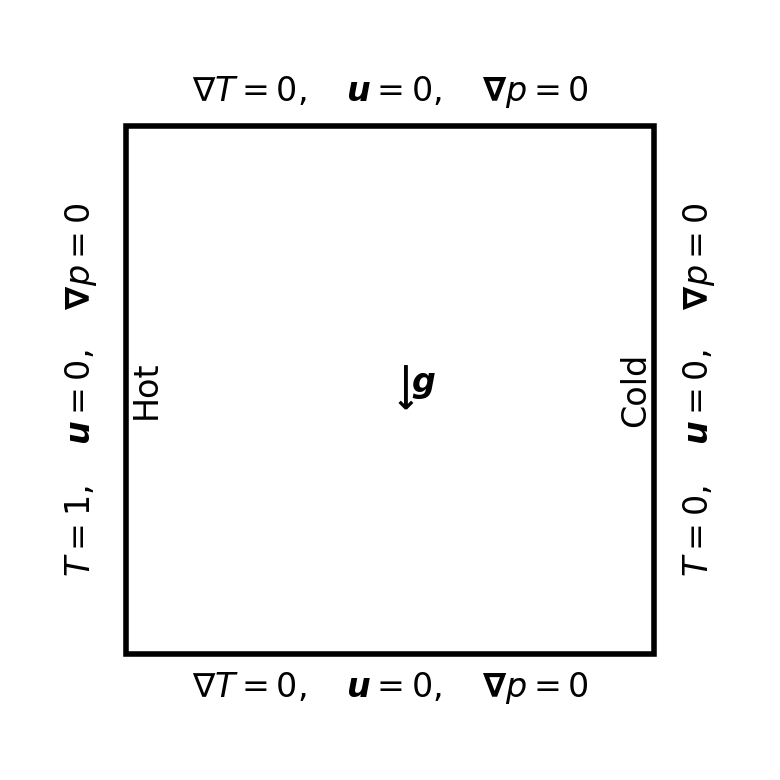
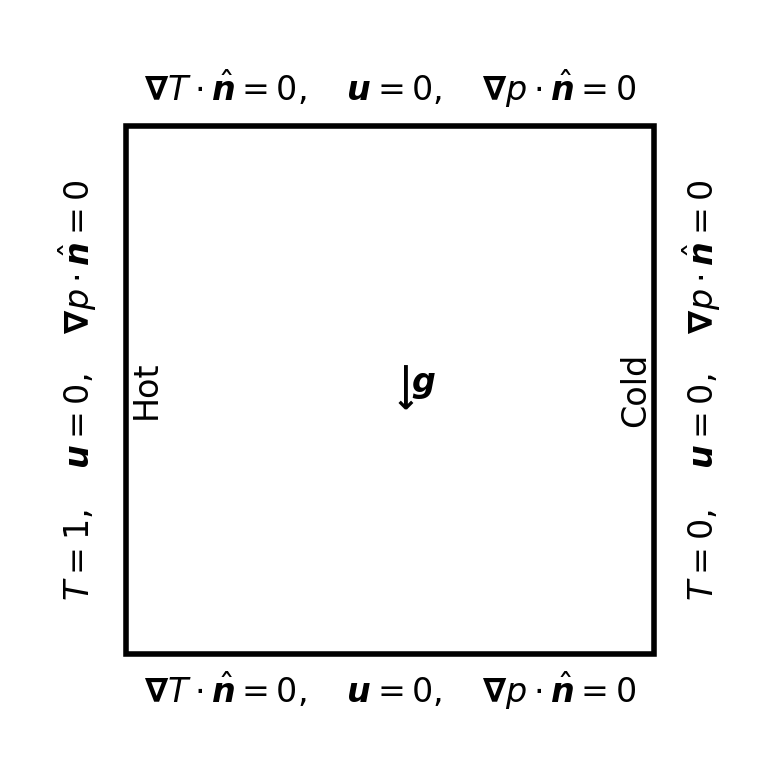
Built site for gh-pages

diff --git a/index.html b/index.html
@@ -11,7 +11,7 @@
 
   <meta name="author" content="Ali ASAD">
   <meta name="dcterms.date" content="2025-07-22">
-  <title>Natural convection implementation SAMURAI + PETSc</title>
+  <title>Natural convection for CHT</title>
   <meta name="apple-mobile-web-app-capable" content="yes">
   <meta name="apple-mobile-web-app-status-bar-style" content="black-translucent">
   <meta name="viewport" content="width=device-width, initial-scale=1.0, maximum-scale=1.0, user-scalable=no, minimal-ui">
@@ -215,8 +215,7 @@
     <div class="slides">
 
 <section id="title-slide" class="quarto-title-block center">
-  <h1 class="title"><p>Natural convection implementation<br>
-<code>SAMURAI + PETSc</code></p></h1>
+  <h1 class="title">Natural convection for CHT</h1>
 
 <div class="quarto-title-authors">
 <div class="quarto-title-author">
@@ -230,8 +229,8 @@ Ali ASAD
 </section>
 <section id="problem-setup-and-model" class="slide level2">
 <h2>Problem Setup and Model</h2>
-<p>*Natural convection in a differentially heated cavity with <span class="math inline">\(\boldsymbol{u}\)</span>, <span class="math inline">\(p\)</span>, and <span class="math inline">\(T\)</span>: being the vector velocity field, pressure and temperature scalar fields.</p>
-<div id="66895983" class="cell" data-execution_count="1">
+<p>Natural convection in a differentially heated cavity with <span class="math inline">\(\boldsymbol{u}\)</span>, <span class="math inline">\(p\)</span>, and <span class="math inline">\(T\)</span> being the vector velocity field, pressure and temperature scalar fields, respectively.</p>
+<div id="d2c064e8" class="cell" data-execution_count="1">
 <div class="cell-output cell-output-display">
 <div>
 <figure>
@@ -310,65 +309,82 @@ Ali ASAD
 <ul>
 <li>Linear convection of scalar with fixed velocity</li>
 </ul>
-<p><span style="font-size: 85%;"><em>Definition</em></span></p>
+<p><span style="font-size: 90%;"><em>Definition</em></span></p>
 <div class="sourceCode" id="cb4"><pre class="sourceCode numberSource cpp number-lines code-with-copy"><code class="sourceCode cpp"><span id="cb4-1"><a></a><span class="kw">auto</span> conv_temp  <span class="op">=</span> samurai<span class="op">::</span>make_convection_upwind<span class="op">&lt;</span>TemperatureField<span class="op">&gt;(</span>velocity<span class="op">);</span></span></code><button title="Copy to Clipboard" class="code-copy-button"><i class="bi"></i></button></pre></div>
-<p><span style="font-size: 85%;"><em>Call</em></span></p>
+<p><span style="font-size: 90%;"><em>Call</em></span></p>
 <div class="sourceCode" id="cb5"><pre class="sourceCode numberSource cpp number-lines code-with-copy"><code class="sourceCode cpp"><span id="cb5-1"><a></a>conv_temp<span class="op">(</span>temperature<span class="op">);</span></span></code><button title="Copy to Clipboard" class="code-copy-button"><i class="bi"></i></button></pre></div>
-<p><span style="font-size: 85%;"><em>Implements</em></span></p>
+<p><span style="font-size: 90%;"><em>Implements</em></span></p>
 <p><span class="math inline">\(\boldsymbol{u}_{\rm {\scriptsize upwind}} \cdot \boldsymbol{\nabla}\)</span></p>
 <ul>
 <li>Nonlinear convection of velocity vector</li>
 </ul>
-<p><span style="font-size: 85%;"><em>Definition</em></span></p>
+<p><span style="font-size: 90%;"><em>Definition</em></span></p>
 <div class="sourceCode" id="cb6"><pre class="sourceCode numberSource cpp number-lines code-with-copy"><code class="sourceCode cpp"><span id="cb6-1"><a></a><span class="kw">auto</span> conv_vel   <span class="op">=</span> samurai<span class="op">::</span>make_convection_upwind<span class="op">&lt;</span>VelocityField<span class="op">&gt;();</span></span></code><button title="Copy to Clipboard" class="code-copy-button"><i class="bi"></i></button></pre></div>
-<p><span style="font-size: 85%;"><em>Call</em></span></p>
+<p><span style="font-size: 90%;"><em>Call</em></span></p>
 <div class="sourceCode" id="cb7"><pre class="sourceCode numberSource cpp number-lines code-with-copy"><code class="sourceCode cpp"><span id="cb7-1"><a></a>conv_vel<span class="op">(</span>velocity<span class="op">);</span></span></code><button title="Copy to Clipboard" class="code-copy-button"><i class="bi"></i></button></pre></div>
-<p><span style="font-size: 85%;"><em>Implements</em></span></p>
-<p><span class="math inline">\(\boldsymbol{u}_{\rm {\scriptsize upwind}} \otimes \boldsymbol{u}\)</span> <span class="math inline">\(\quad\)</span> <span style="font-size: 75%;">⚠ <span class="math inline">\(\ \)</span> It works for incompressible fluid as we explicitly solve for <span class="math inline">\(\nabla \cdot \boldsymbol{u} = 0\)</span> (??).</span></p>
+<p><span style="font-size: 90%;"><em>Implements</em></span></p>
+<p><span class="math inline">\(\boldsymbol{u}_{\rm {\scriptsize upwind}} \otimes \boldsymbol{u}\)</span> <span class="math inline">\(\quad\)</span> <span style="font-size: 85%;">⚠ <span class="math inline">\(\ \)</span> It works for incompressible fluid as we explicitly solve for <span class="math inline">\(\nabla \cdot \boldsymbol{u} = 0\)</span> (??).</span></p>
 </section>
 <section id="result-natural-convection-standalone" class="slide level2">
 <h2>Result: Natural Convection (standalone)</h2>
-<!-- <span style="font-size: 85%;"> 
+<!-- <span style="font-size: 90%;"> 
 Parameters</span> -->
 <ul>
-<li><span style="font-size: 75%;"><span class="math inline">\({\rm Ra} = 1{\rm E+}2\)</span>, <span class="math inline">\({\rm Pr} = 1\)</span>, <span class="math inline">\(T_f = 5\)</span></span></li>
-<li><span style="font-size: 75%;"><span class="math inline">\(\ell = [6, 4]\)</span>, <span class="math inline">\(\epsilon_{\rm MR} = 2{\rm E-4}\)</span>, <span class="math inline">\(MR_{\rm regularity} = 1\)</span></span></li>
+<li><span style="font-size: 85%;"><span class="math inline">\({\rm Ra} = 1{\rm E+}2\)</span>, <span class="math inline">\({\rm Pr} = 1\)</span>, <span class="math inline">\(T_f = 5\)</span></span></li>
+<li><span style="font-size: 85%;"><span class="math inline">\(\ell = [6, 4]\)</span>, <span class="math inline">\(\epsilon_{\rm MR} = 2{\rm E-4}\)</span>, <span class="math inline">\(MR_{\rm regularity} = 1\)</span></span></li>
 </ul>
 <p><img data-src="nat_conv_Ra1e+02.gif" height="400"></p>
-<p><span style="font-size: 85%;">Remarks</span></p>
+<p><span style="font-size: 90%;">Remarks</span></p>
 <ul>
-<li><span style="font-size: 85%;">AMR is not well utilised</span></li>
-<li><span style="font-size: 85%;">Ra <span class="math inline">\(&gt;\)</span> 1E+3 : code diverges (explicit buoyancy forcing?, explicit nonlinear terms, finer mesh ?) </span></li>
+<li><span style="font-size: 90%;">AMR is not well utilised</span></li>
+<li><span style="font-size: 90%;">Ra <span class="math inline">\(&gt;\)</span> 1E+3 : code diverges (explicit buoyancy forcing?, explicit nonlinear terms, finer mesh ?) </span></li>
 </ul>
 </section>
 <section id="result-natural-convection-standalone-1" class="slide level2">
 <h2>Result: Natural Convection (standalone)</h2>
-<!-- <span style="font-size: 85%;"> 
+<!-- <span style="font-size: 90%;"> 
 Parameters</span> -->
 <ul>
-<li><span style="font-size: 75%;"><span class="math inline">\({\rm Ra} = 1{\rm E+}3\)</span>, <span class="math inline">\({\rm Pr} = 1\)</span>, <span class="math inline">\(T_f = 2\)</span></span></li>
-<li><span style="font-size: 75%;"><span class="math inline">\(\ell = [6, 4]\)</span>, <span class="math inline">\(\epsilon_{\rm MR} = 2{\rm E-4}\)</span>, <span class="math inline">\(MR_{\rm regularity} = 1\)</span></span></li>
+<li><span style="font-size: 85%;"><span class="math inline">\({\rm Ra} = 1{\rm E+}3\)</span>, <span class="math inline">\({\rm Pr} = 1\)</span>, <span class="math inline">\(T_f = 2\)</span></span></li>
+<li><span style="font-size: 85%;"><span class="math inline">\(\ell = [6, 4]\)</span>, <span class="math inline">\(\epsilon_{\rm MR} = 2{\rm E-4}\)</span>, <span class="math inline">\(MR_{\rm regularity} = 1\)</span></span></li>
 </ul>
 <p><img data-src="nat_conv_Ra1e+03.gif" height="400"></p>
-<!-- <span style="font-size: 85%;">Remarks</span>
+<!-- <span style="font-size: 90%;">Remarks</span>
 
--  <span style="font-size: 85%;">AMR is not well utilised</span>
--  <span style="font-size: 85%;">Ra $>$ 1E+3 : code diverges (explicit buoyancy forcing?, explicit nonlinear terms, finer mesh ?) </span>  -->
+-  <span style="font-size: 90%;">AMR is not well utilised</span>
+-  <span style="font-size: 90%;">Ra $>$ 1E+3 : code diverges (explicit buoyancy forcing?, explicit nonlinear terms, finer mesh ?) </span>  -->
 </section>
-<section id="result-solid-fluid-cht-with-natural-convection" class="slide level2">
-<h2>Result: Solid-Fluid CHT with Natural Convection</h2>
+<section id="solid-fluid-cht-with-natural-convection-the-setup" class="slide level2">
+<h2>Solid-Fluid CHT with Natural Convection : The setup</h2>
+<p><br>
+</p>
+<p align="center" ,="" style="color: red;"><strong>Dirichlet-Neumann coupling</strong></p>
+<p><br>
+</p>
+<div id="1c8bc542" class="cell" data-execution_count="2">
+<div class="cell-output cell-output-display">
+<div>
+<figure>
+<p><img data-src="index_files/figure-revealjs/cell-3-output-1.png" width="790" height="790"></p>
+</figure>
+</div>
+</div>
+</div>
+</section>
+<section id="solid-fluid-cht-with-natural-convection-a-first-result" class="slide level2">
+<h2>Solid-Fluid CHT with Natural Convection: A first result</h2>
 <p><strong>(<code>SAMURAI</code> + <code>PETSc</code> + <span style="color: red; font-family: monospace;">CWIPI</span>)</strong></p>
 <ul>
-<li><span style="font-size: 75%;"><span class="math inline">\({\rm Ra} = 1{\rm E+}2\)</span>, <span class="math inline">\({\rm Pr} = 1\)</span>, <span class="math inline">\(T_f = 40\)</span></span></li>
-<li><span style="font-size: 75%;"><span class="math inline">\(\ell_{\rm left} = 4\)</span>, <span class="math inline">\(\ell_{\rm right} = 5\)</span></span></li>
-<li><span style="font-size: 75%;"><span class="math inline">\(\Delta t_{\rm coupling} = 0.1\)</span></span></li>
+<li><span style="font-size: 85%;"><span class="math inline">\({\rm Ra} = 1{\rm E+}2\)</span>, <span class="math inline">\({\rm Pr} = 1\)</span>, <span class="math inline">\(T_f = 40\)</span></span></li>
+<li><span style="font-size: 85%;"><span class="math inline">\(\ell_{\rm left} = 4\)</span>, <span class="math inline">\(\ell_{\rm right} = 5\)</span></span></li>
+<li><span style="font-size: 85%;"><span class="math inline">\(\Delta t_{\rm coupling} = 0.1\)</span></span></li>
 </ul>
 <p><img data-src="cht_temp_isosurface.gif" height="400"></p>
-<p><span style="font-size: 85%;">Remarks</span></p>
+<p><span style="font-size: 90%;">Remarks</span></p>
 <ul>
-<li><span style="font-size: 85%;">AMR not implemented</span></li>
-<li><span style="font-size: 85%;">First-order BE: slower (probably inefficient implimentation) than ponio </span></li>
-<li><span style="font-size: 85%;">Ponio: solver implementation with PETSc state vector created by block assembly (possible solution found with JM, not implemented) </span></li>
+<li><span style="font-size: 90%;">AMR not implemented</span></li>
+<li><span style="font-size: 90%;">First-order BE: slower (probably inefficient implimentation) than ponio </span></li>
+<li><span style="font-size: 90%;">Ponio: solver implementation with PETSc state vector created by block assembly (possible solution found with JM, not implemented) </span></li>
 </ul>
 </section>
 <section id="references" class="slide level2 smaller scrollable">
@@ -665,7 +681,7 @@ Xin, Shihe, and Patrick Le Quéré. 2006. <span>“Natural-Convection Flows in A
         }
           var localhostRegex = new RegExp(/^(?:http|https):\/\/localhost\:?[0-9]*\//);
           var mailtoRegex = new RegExp(/^mailto:/);
-            var filterRegex = new RegExp('/' + window.location.host + '/');
+            var filterRegex = new RegExp("https:\/\/aliasad477\.github\.io\/cht_presentation\/");
           var isInternal = (href) => {
               return filterRegex.test(href) || localhostRegex.test(href) || mailtoRegex.test(href);
           }
